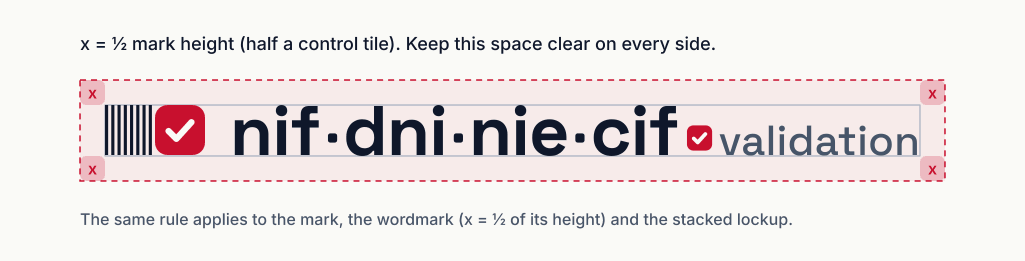
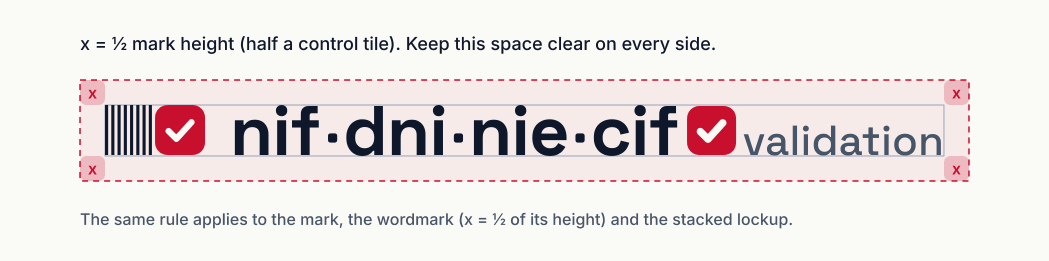
docs(brand): enlarge the wordmark check tile to cap height
At the 200 px minimum width the old tile (74% of the x-height) shrank
to a red dot and the check was lost. The tile is now as tall as the
capitals and sits on the baseline, which keeps the check legible and
ties the wordmark to the mark's control tile.

Regenerated the wordmarks, lockups, README headers, social and OG
images, and the preview sheets. The mark, favicons and app icons are
byte-identical.

diff --git a/brand/README.md b/brand/README.md
@@ -41,7 +41,7 @@ its side**.
 ### Wordmark
 
 The wordmark is the package name, styled: **`nif·dni·nie·cif`** in Space Grotesk Bold, with small ink tiles
-where the hyphens were. The **last separator is the red check tile**, followed by a smaller **"validation"** tag in
+where the hyphens were. The **last separator is the red check tile**, as tall as the capitals and sitting on the baseline so the check stays legible down to the minimum size, followed by a smaller **"validation"** tag in
 Space Grotesk Medium. It keeps the exact order of `nif-dni-nie-cif-validation`: every hyphen becomes a tile. All text
 is converted to outlines, so no fonts are needed to display it.
 
